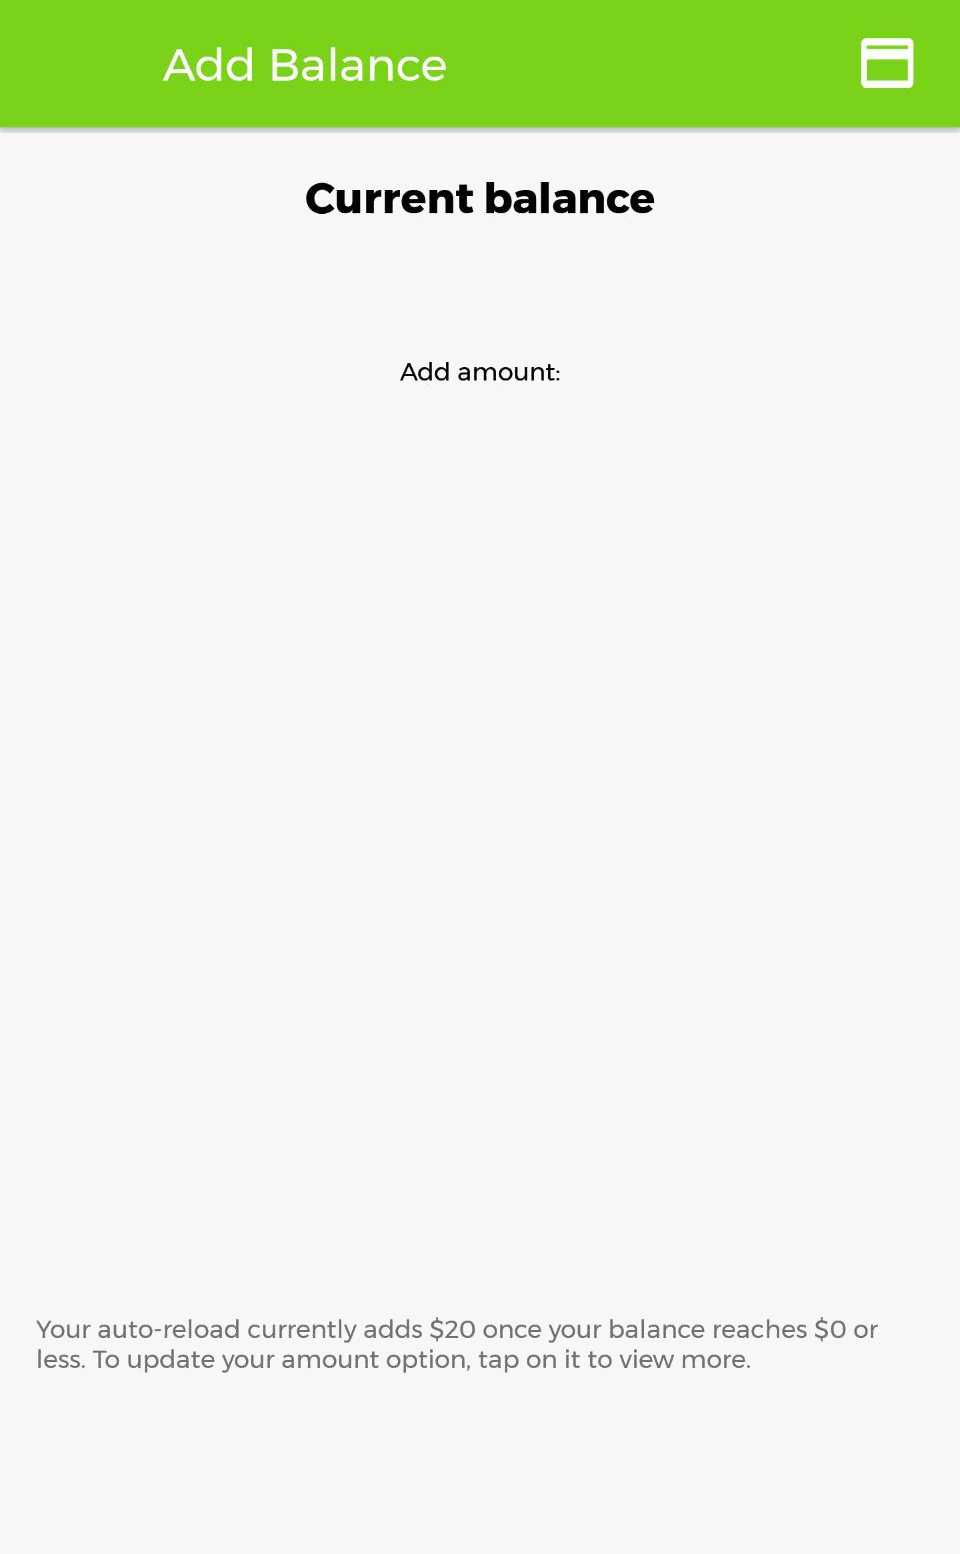
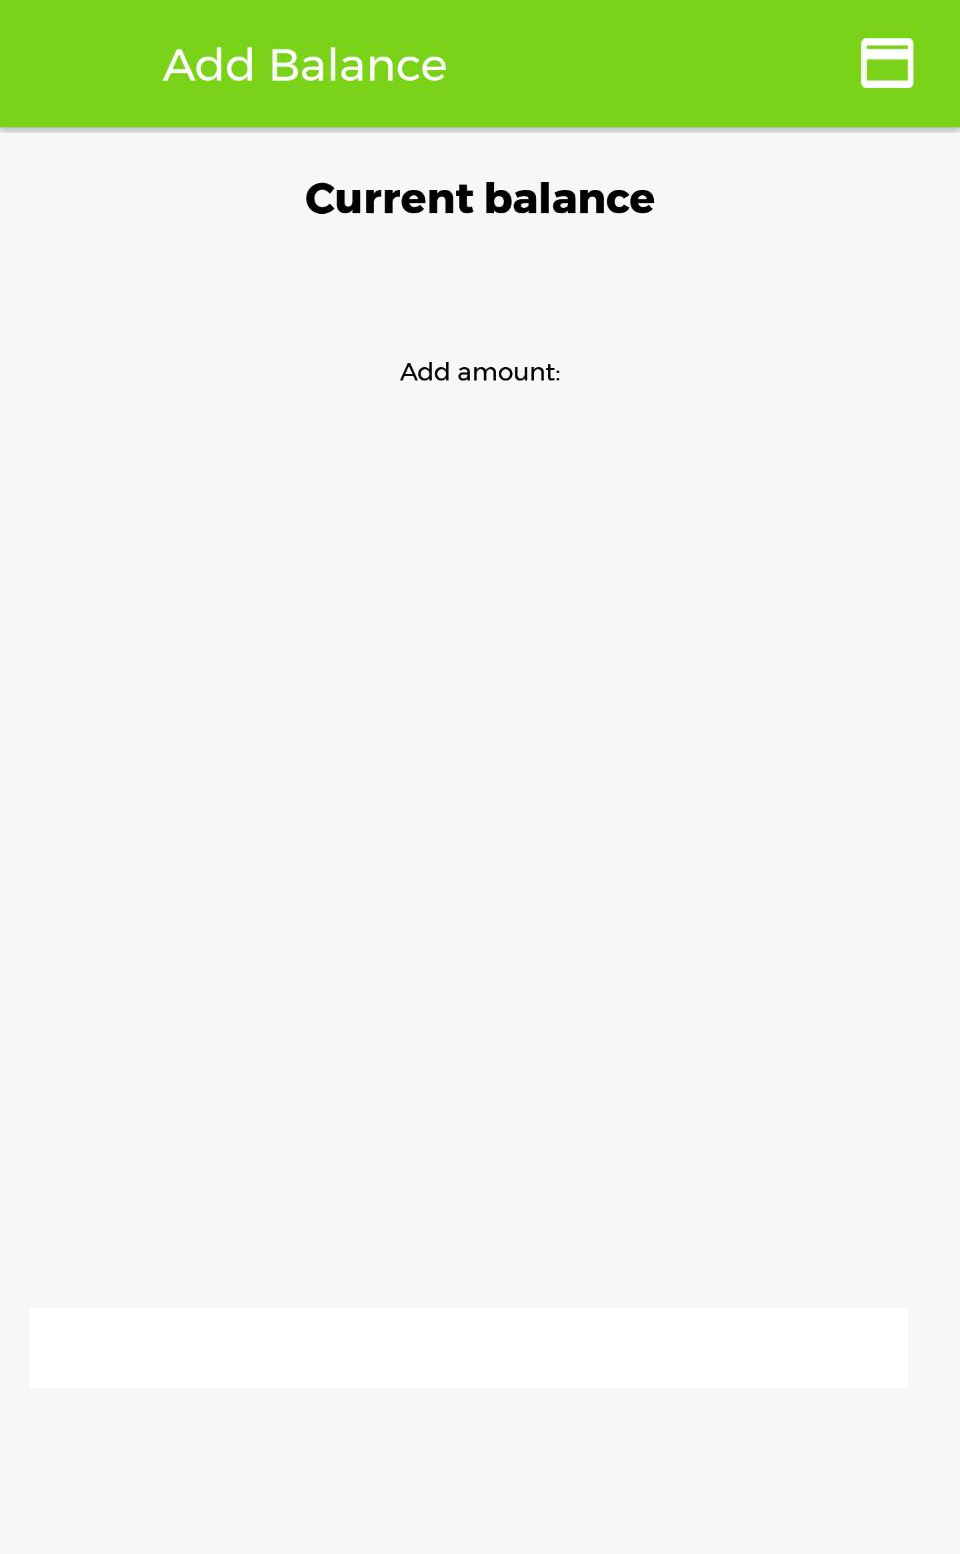
fix positioning of wallet elements

Changed region(s): [[0.0312, 0.834, 0.9062, 0.8958]]

diff --git a/styles/wallet.css b/styles/wallet.css
@@ -11,12 +11,37 @@ body {
     flex-direction: column;
 }
 
-.wallet-bottom-filler {
-    height: 50vh;
+.add-amount-container {
+    position: absolute;
+    text-align: center;
+    width: 100%;
+    margin-top: 31%;
+}
+
+#add-amount {
+    font-weight: 900;
+    color: #7ad21b;
+}
+
+#add {
+    font-weight: 900;
+    text-align: center;
+    position: absolute;
+    margin-top: 118%;
+    margin-left: 1%;
+    margin-right: 1%;
+    margin-bottom: 4%;
+    width: 98%;
+}
+
+#add:active {
+    background-color: #6ac20b;
+    border-color: #6ac20b;
 }
 
 .money-container {
-    padding-top: 40%;
+    position: absolute;
+    margin-top: 40%;
     display: inline-grid;
     grid-auto-flow: dense;
     align-items: center;
@@ -53,25 +78,14 @@ body {
 .auto-reload-container label {
     font-size: 4vw;
     font-weight: bold;
-    padding-top: 5%;
-    padding-left: 3%;
+    position: absolute;
+    margin-top: 75%;
+    margin-left: 3%;
 }
 
 .auto-reload-container label.switch {
-    margin-left: 56%;
-    margin-top: 5%;
+    position: absolute;
+    margin-left: 88%;
+    margin-top: 75.5%;
 }
 
-#add {
-    font-weight: 900;
-    text-align: center;
-    margin-top: 38%;
-    margin-left: 1%;
-    margin-right: 1%;
-    margin-bottom: 4%;
-}
-
-#add:active {
-    background-color: #6ac20b;
-    border-color: #6ac20b;
-}

diff --git a/wallet.html b/wallet.html
@@ -9,6 +9,9 @@
       <a href="index.html" class="wallet">&#x2190;</a>
     </div>
     <div class="main">
+      <div class="add-amount-container">
+        <div id="add-amount">$0.00</div>
+      </div>
       <div class="money-container">
         <input type="radio" name="dollars" class="money-select"> 
         <label>$5</label>
